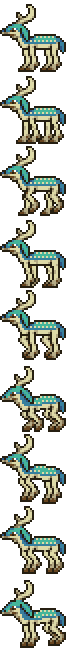
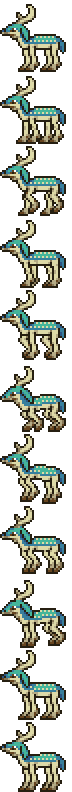
That last commit had a code with only numbers in it
Pretty neat
Anyway:
Kelbi now has an idle animation (but still can't climb up slopes)
Aquarian Watercutter now spawns a projectile when hitting an enemy, and the velocity of this projectile is dependent on enemy velocity
Guard sound now plays when hit while guarding (Need to get rid of the nasty blip, though)
Leather can be crafted with Vertebrae

diff --git a/NPCs/EasyEnemies/Kelbi.cs b/NPCs/EasyEnemies/Kelbi.cs
@@ -16,7 +16,7 @@ namespace NimblesThrowingStuff.NPCs.EasyEnemies
 		public override void SetStaticDefaults()
         {
             DisplayName.SetDefault("Kelbi");
-            Main.npcFrameCount[NPC.type] = 9;
+            Main.npcFrameCount[NPC.type] = 11;
 		}
 
 		public override void SetDefaults()
@@ -130,19 +130,19 @@ namespace NimblesThrowingStuff.NPCs.EasyEnemies
             NPC.frameCounter++;
             if (NPC.ai[1] >= 300 && NPC.ai[1] <= 960 && NPC.life == NPC.lifeMax)
             {
-                if (NPC.frameCounter < 15)
+                if (NPC.frameCounter < 12)
                 {
                     NPC.frame.Y = 1 * frameHeight;
                 }
-                else if (NPC.frameCounter < 30)
+                else if (NPC.frameCounter < 24)
                 {
                     NPC.frame.Y = 2 * frameHeight;
                 }
-                else if (NPC.frameCounter < 45)
+                else if (NPC.frameCounter < 36)
                 {
                     NPC.frame.Y = 3 * frameHeight;
                 }
-                else if (NPC.frameCounter < 60)
+                else if (NPC.frameCounter < 48)
                 {
                     NPC.frame.Y = 4 * frameHeight;
                 }
@@ -174,7 +174,26 @@ namespace NimblesThrowingStuff.NPCs.EasyEnemies
             }
             else
             {
-                NPC.frame.Y = 0;
+                if (NPC.frameCounter < 100)
+                {
+                    NPC.frame.Y = 0;
+                }
+                else if (NPC.frameCounter < 150)
+                {
+                    NPC.frame.Y = 9 * frameHeight;
+                }
+                else if (NPC.frameCounter < 200)
+                {
+                    NPC.frame.Y = 10 * frameHeight;
+                }
+                else if (NPC.frameCounter < 250)
+                {
+                    NPC.frame.Y = 9 * frameHeight;
+                }
+                else
+                {
+                    NPC.frameCounter = 0;
+                }
             }
         }
         public override float SpawnChance(NPCSpawnInfo spawnInfo)

diff --git a/Items/Weapons/Melee/AquarianWatercutter.cs b/Items/Weapons/Melee/AquarianWatercutter.cs
@@ -34,6 +34,11 @@ namespace NimblesThrowingStuff.Items.Weapons.Melee
 			Item.autoReuse = true;
 			Item.scale = 1.2f;
 		}
+		public override void OnHitNPC(Player player, NPC target, int damage, float knockBack, bool crit)
+		{
+			int FireWaterOnHit = Projectile.NewProjectile(Item.GetSource_FromThis(), target.position.X, target.position.Y, target.velocity.X * player.GetAttackSpeed(DamageClass.Melee), target.velocity.Y * player.GetAttackSpeed(DamageClass.Melee), ProjectileID.WaterStream, (Item.damage / 4) * 3, Item.knockBack, player.whoAmI);
+			Main.projectile[FireWaterOnHit].DamageType = DamageClass.Melee;
+		}
 		public override void AddRecipes()
 		{
 			Recipe recipe = CreateRecipe();

diff --git a/NimblesPlayer.cs b/NimblesPlayer.cs
@@ -122,7 +122,7 @@ namespace NimblesThrowingStuff
                 //    damage = 0;
                 //}
                 quiet = true;
-                SoundEngine.PlaySound(new SoundStyle("Sounds/Item/GuardMetalMedium"));
+                SoundEngine.PlaySound(new SoundStyle("NimblesThrowingStuff/Sounds/Item/GuardMetalMedium"));
                 cooldownCounter += 40;
             }
         }

diff --git a/Items/NimblesGlobalItem.cs b/Items/NimblesGlobalItem.cs
@@ -178,6 +178,10 @@ namespace NimblesThrowingStuff.Items
             recipe.AddTile(TileID.Tables);
             recipe.AddTile(TileID.Chairs);
             recipe.Register();
+            recipe = Recipe.Create(ItemID.Leather, 1);
+            recipe.AddIngredient(ItemID.Vertebrae, 5);
+            recipe.AddTile(TileID.WorkBenches);
+            recipe.Register();
         }
     }
 }
